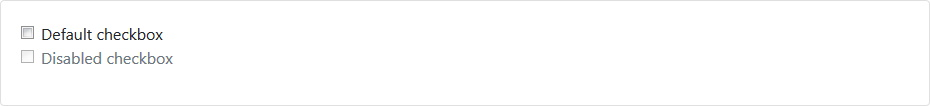
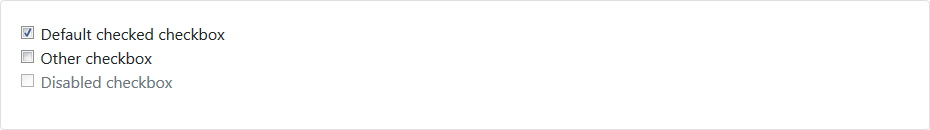
~

Changed region(s): [[0.0, 0.1981, 0.2495, 0.6792]]

diff --git a/readme/form/README.md b/readme/form/README.md
@@ -436,16 +436,26 @@
   {
     Input = new hsInputCheckbox()
     {
-      ID = "defaultCheck1"
+      ID = "defaultCheck1",
+      IsChecked = true
     },
-    Label = "Default checkbox"
+    Label = "Default checked checkbox"
   });
 
   GroupStacked.CustomInputs.Add(new bmInput()
   {
     Input = new hsInputCheckbox()
     {
-      ID = "defaultCheck2",
+      ID = "defaultCheck2"
+    },
+    Label = "Other checkbox"
+  });
+
+  GroupStacked.CustomInputs.Add(new bmInput()
+  {
+    Input = new hsInputCheckbox()
+    {
+      ID = "defaultCheck3",
       IsDisabled = true
     },
     Label = "Disabled checkbox"
@@ -465,12 +475,16 @@
 <form accept-charset="utf-8" id="demo-form-dom-id">
   <div class="form-group">
     <div class="form-check">
-      <input id="defaultCheck1" name="defaultCheck1" type="checkbox" class="form-check-input">
-      <label for="defaultCheck1" class="form-check-label">Default checkbox</label>
+      <input checked="checked" id="defaultCheck1" name="defaultCheck1" type="checkbox" class="form-check-input">
+      <label for="defaultCheck1" class="form-check-label">Default checked checkbox</label>
     </div>
     <div class="form-check">
-      <input disabled="disabled" id="defaultCheck2" name="defaultCheck2" type="checkbox" class="form-check-input">
-      <label for="defaultCheck2" class="form-check-label">Disabled checkbox</label>
+      <input id="defaultCheck2" name="defaultCheck2" type="checkbox" class="form-check-input">
+      <label for="defaultCheck2" class="form-check-label">Other checkbox</label>
+    </div>
+    <div class="form-check">
+      <input disabled="disabled" id="defaultCheck3" name="defaultCheck3" type="checkbox" class="form-check-input">
+      <label for="defaultCheck3" class="form-check-label">Disabled checkbox</label>
     </div>
   </div>
 </form>
